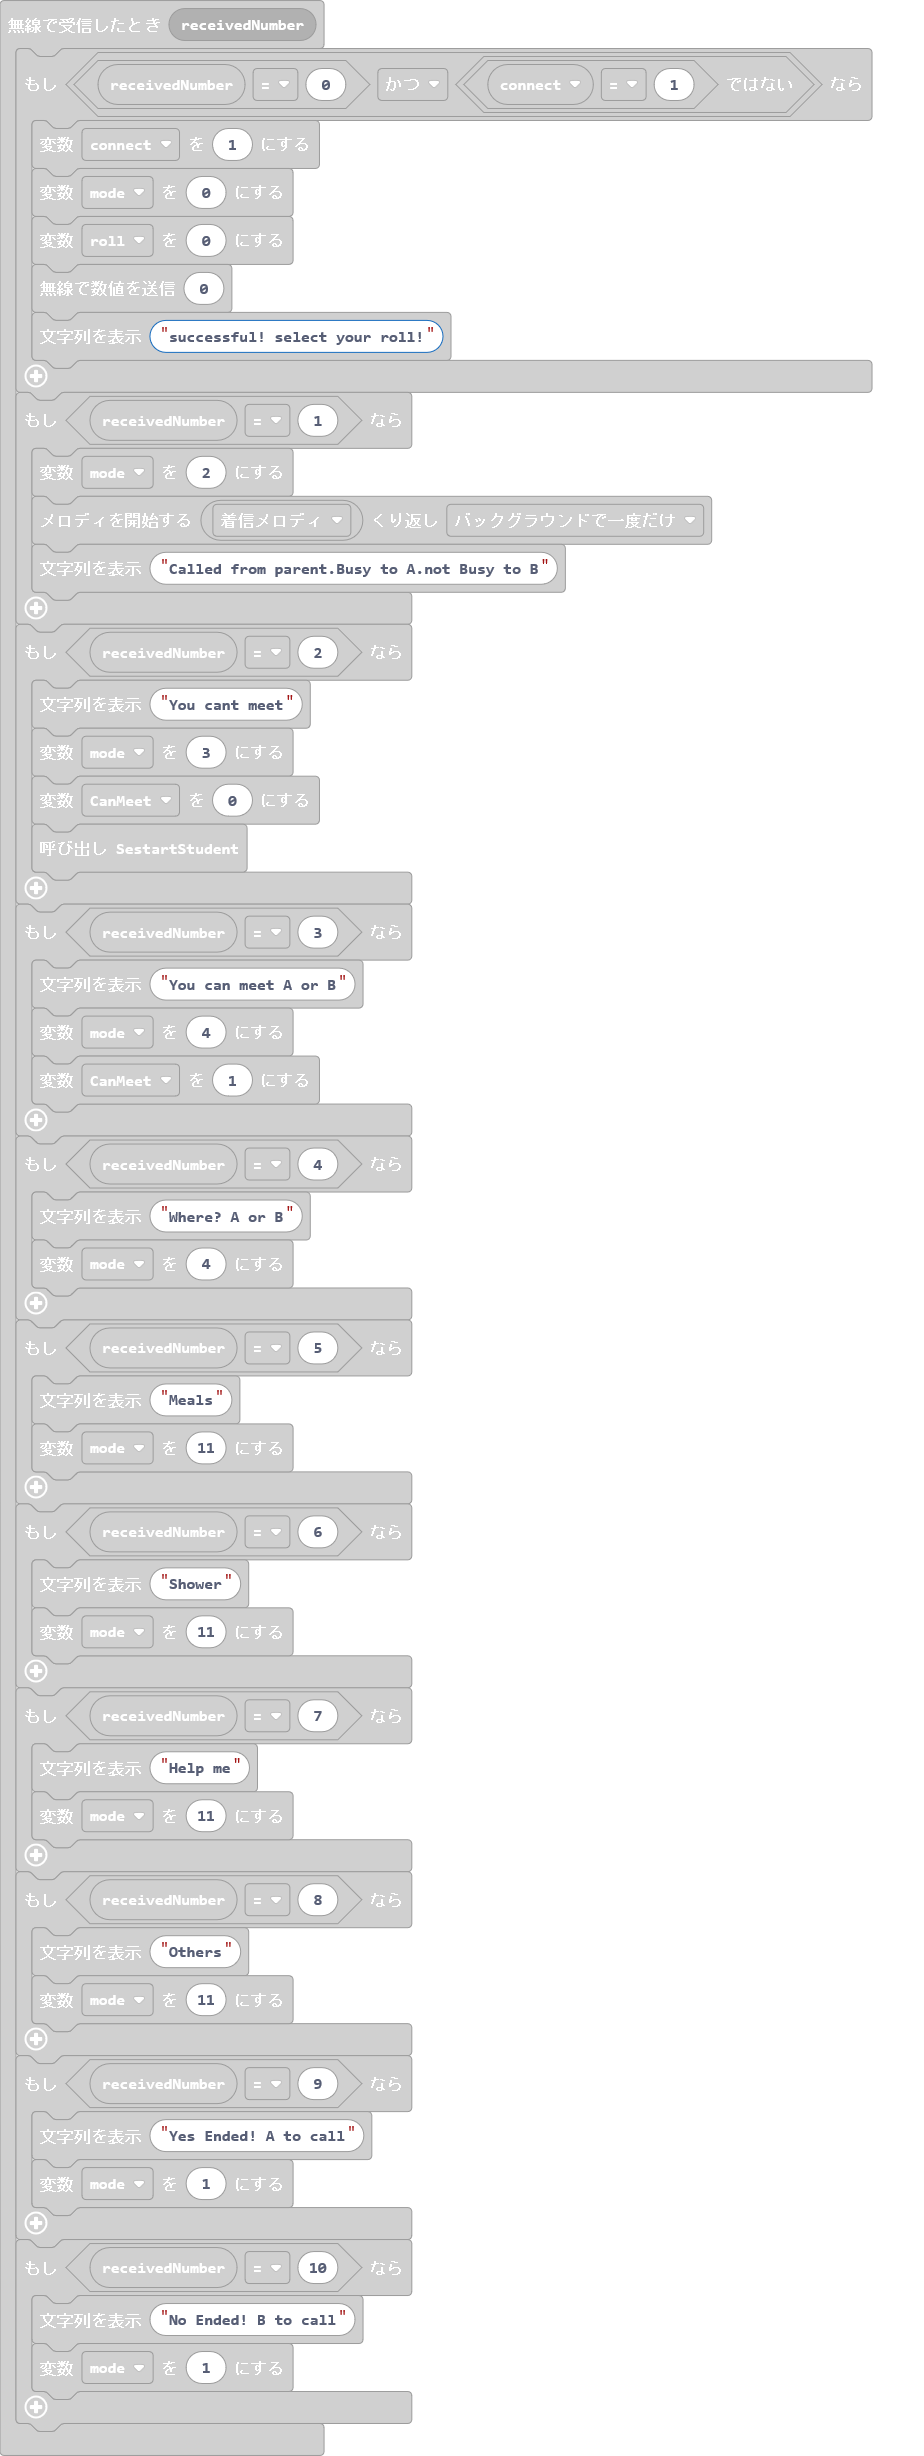
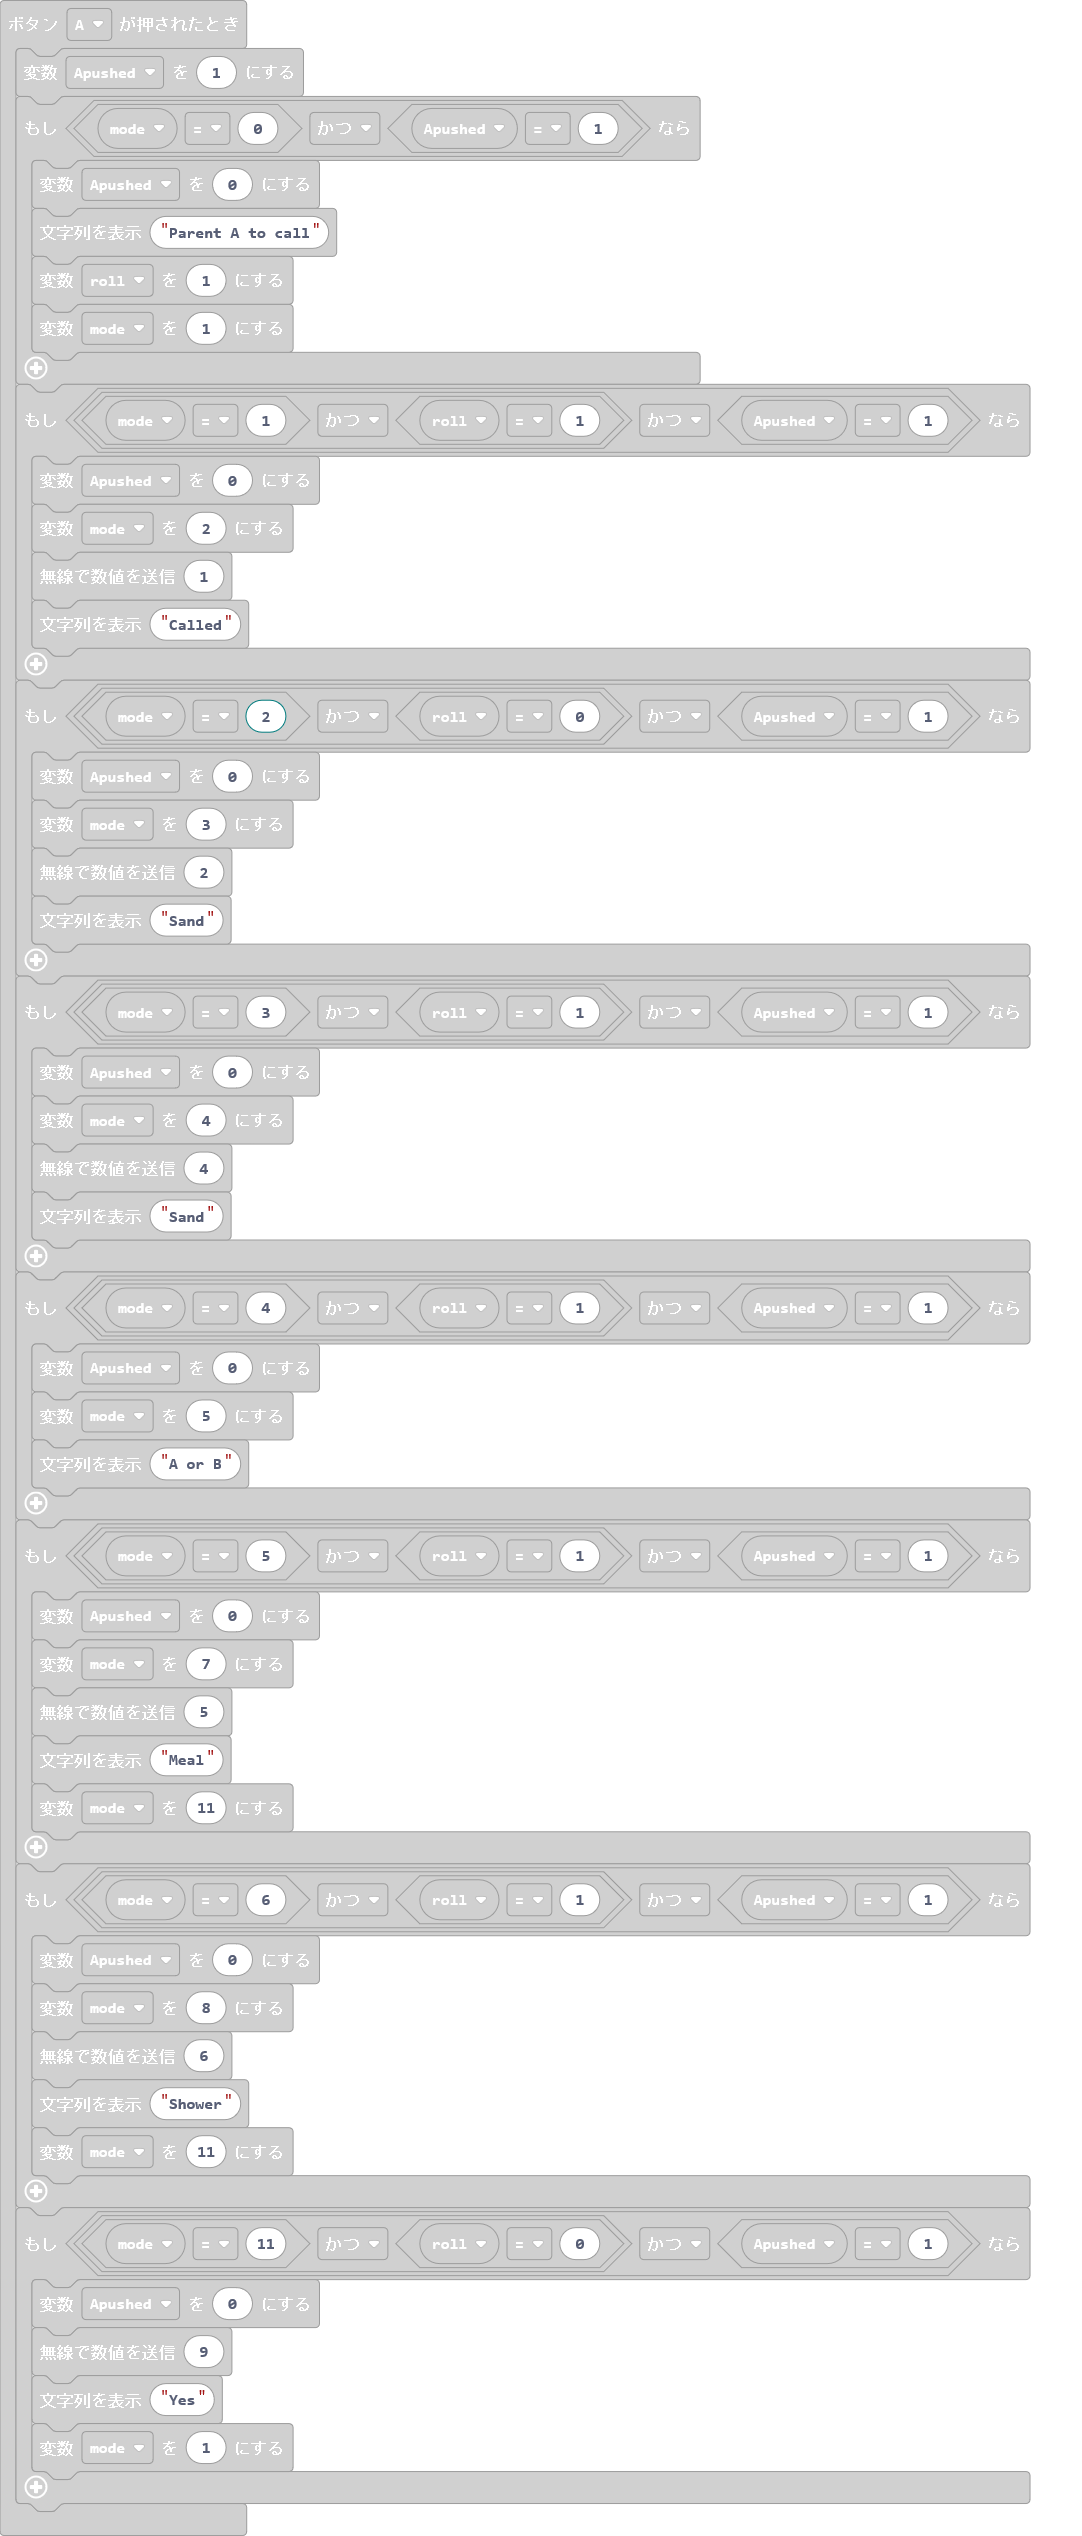
no -1

diff --git a/main.ts b/main.ts
@@ -69,7 +69,7 @@ input.onButtonPressed(Button.A, function () {
         radio.sendNumber(1)
         basic.showString("Called")
     }
-    if (mode == -1 && roll == 0 && Apushed == 1) {
+    if (mode == 2 && roll == 0 && Apushed == 1) {
         Apushed = 0
         mode = 3
         radio.sendNumber(2)
